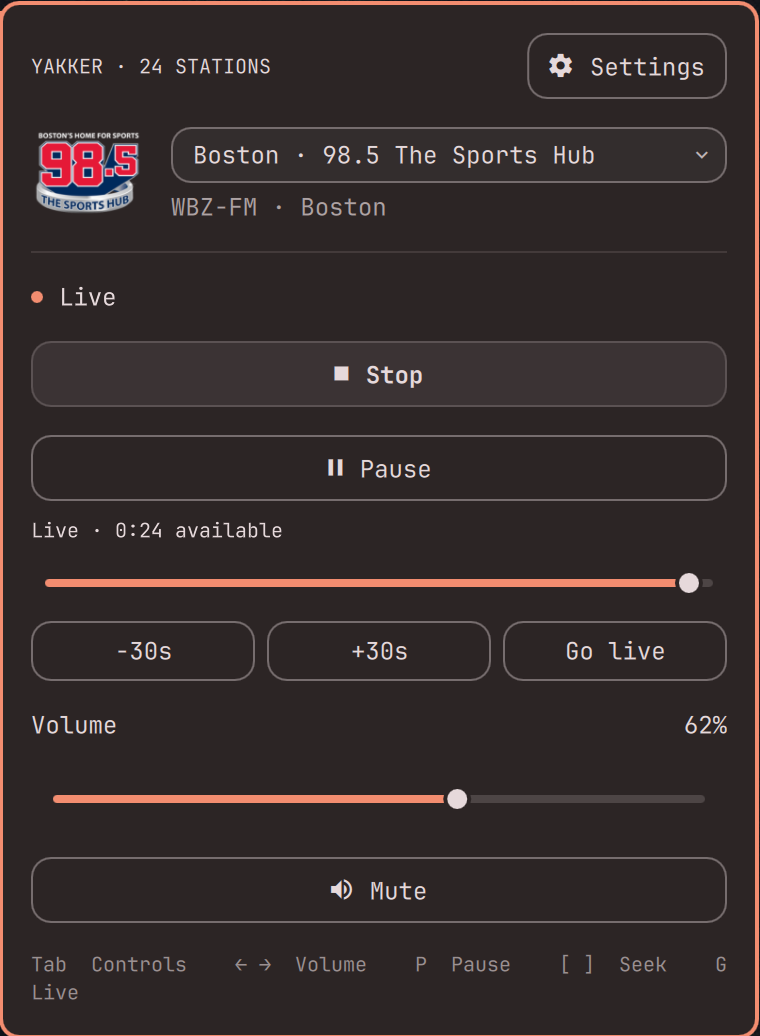
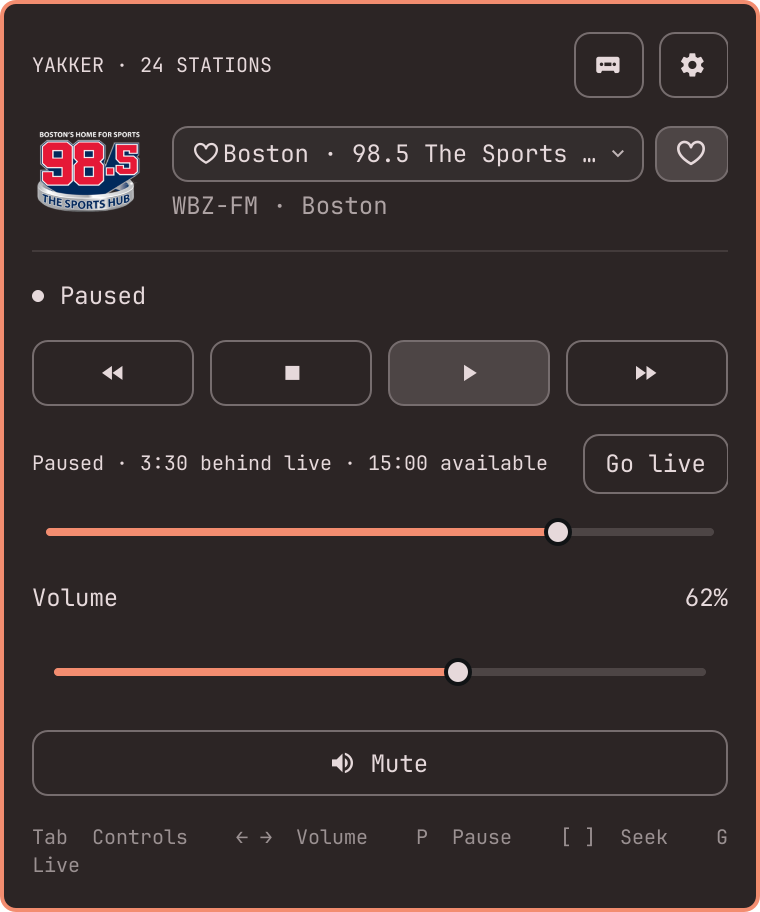
Refresh README feature gallery and native UI screenshots

diff --git a/tools/readme/gallery.qml b/tools/readme/gallery.qml
@@ -1,0 +1,104 @@
+import QtQuick
+import QtQuick.Window
+import QtTest
+import Quickshell
+import qs.Commons as Commons
+import "plugin" as Plugin
+
+ShellRoot {
+  Window {
+    id: window
+    visible: true
+    width: 380
+    height: 600
+    color: "transparent"
+    Plugin.Panel { id: panel; width: window.width; height: window.height }
+    Timer { interval: 800; running: true; onTriggered: gallery.render() }
+    TestCase {
+      id: gallery
+      when: false
+      readonly property var radio: panel.radio
+      readonly property var schedule: ({id: "afternoon", label: "Afternoon sports", stationId: "wbz-fm", stationName: "98.5 The Sports Hub", weekdays: [1,2,3,4,5], startTime: "14:00", endTime: "14:20", timezone: "America/New_York", enabled: true, nextStart: "2026-11-23T14:00:00-05:00", nextEnd: "2026-11-23T14:20:00-05:00"})
+      function snapshot(schedules, recordings, active) {
+        return {available: true, revision: 1, error: "", localTimezone: "America/New_York",
+          settings: {folder: "/home/demo/Music/Yakker", storageCapBytes: 5368709120, freeSpaceReserveBytes: 1073741824, concurrency: 3},
+          usedBytes: recordings.reduce(function(total, item) { return total + item.bytes }, 0), schedules: schedules, recordings: recordings, activeCount: active || 0}
+      }
+      function capture(name) {
+        panel.screenshotScroller.contentY = 0
+        wait(150)
+        window.height = panel.screenshotPanel.contentHeight
+        wait(150)
+        var done = false, saved = false
+        window.contentItem.grabToImage(function(result) {
+          saved = result.saveToFile(Quickshell.env("YAKKER_SCREENSHOT_DIR") + "/yakker-" + name + ".png")
+          done = true
+        })
+        tryVerify(function() { return done }, 5000)
+        verify(saved, "Could not save " + name)
+      }
+      function render() {
+        try {
+          // The production components render sample state without starting the
+          // shared controller. Dates and show labels are illustrative.
+          Commons.Style.cornerRadius = 8
+          Commons.Style.fontFamily = "JetBrainsMono Nerd Font"
+          const request = new XMLHttpRequest()
+          request.open("GET", Qt.resolvedUrl("plugin/stations.json"), false)
+          request.send()
+          radio.stations = JSON.parse(request.responseText)
+          radio.station = radio.stations[0]
+          radio.stationId = radio.station.id
+          radio.favoriteIds = ["wbz-fm", "wfan", "tsn-690"]
+          radio.initialized = true; radio.ready = true
+          radio.wanted = true; radio.playbackState = "playing"
+          radio.volume = 62
+          radio.recordings = snapshot([], [], 0)
+          panel.cursor = -1
+          panel.open()
+          capture("popup")
+
+          radio.bufferMinutes = 15; radio.dvr = true
+          radio.bufferStart = 0; radio.bufferEnd = 900; radio.position = 690
+          radio.paused = true; radio.playbackState = "paused"
+          capture("dvr")
+
+          radio.bufferMinutes = 0; radio.dvr = false; radio.paused = false
+          radio.playbackState = "playing"
+          panel.screenshotPicker.open()
+          capture("stations")
+          panel.screenshotPicker.close()
+
+          const complete = {id: "saved", label: "Afternoon sports", stationName: "98.5 The Sports Hub", status: "complete", bytes: 3600000, durationSeconds: 1200,
+            plannedStart: "2026-11-19T14:00:00-05:00", plannedEnd: "2026-11-19T14:20:00-05:00", startedAt: "2026-11-19T14:00:01-05:00", endedAt: "2026-11-19T14:20:00-05:00", playable: true}
+          const active = {id: "capturing", label: "Afternoon sports", stationName: "98.5 The Sports Hub", status: "recording", bytes: 1800000,
+            plannedStart: "2026-11-20T14:00:00-05:00", plannedEnd: "2026-11-20T14:20:00-05:00", startedAt: "2026-11-20T14:00:01-05:00", playable: false}
+          radio.recordings = snapshot([schedule], [active, complete], 1)
+          panel.openRecordings(false)
+          capture("recordings")
+
+          radio.recordings = snapshot([], [], 0)
+          panel.screenshotView.beginEdit(Object.assign({}, schedule, {id: ""}))
+          capture("schedule")
+          panel.screenshotView.editing = false
+
+          panel.recordingsOpen = false
+          radio.playbackKind = "recording"; radio.recordingTitle = "Afternoon sports"
+          radio.duration = 1200; radio.position = 486
+          capture("recording-player")
+
+          radio.playbackKind = "live"; radio.position = 0
+          panel.settingsOpen = true
+          capture("settings")
+          panel.settingsOpen = false
+          panel.openRecordings(true)
+          capture("storage")
+          console.log("YAKKER_README_SCREENSHOTS_PASS")
+        } catch (error) {
+          console.error("YAKKER_README_SCREENSHOTS_FAIL", error, error.stack)
+        }
+        Qt.quit()
+      }
+    }
+  }
+}

diff --git a/tools/readme/KeyboardPanel.qml b/tools/readme/KeyboardPanel.qml
@@ -1,0 +1,37 @@
+import QtQuick
+import qs.Commons
+import qs.Commons as Commons
+import qs.Ui as Ui
+
+// Headless counterpart of the installed layer-shell wrapper. Retains its native
+// card, border, padding and sizing; only the desktop anchoring is replaced.
+Item {
+  id: root
+  property var anchorItem
+  property var owner
+  property var bar
+  property bool open: false
+  property var focusTarget
+  property int contentWidth: 380
+  property int contentHeight: 500
+  default property alias contentItem: contentHolder.children
+  width: contentWidth
+  height: contentHeight
+  function fittedContentWidth(value) { return value }
+  function fittedContentHeight(value) { return Math.ceil(value + card.contentTopInset + card.contentBottomInset) }
+  Ui.BorderSurface {
+    id: card
+    anchors.fill: parent
+    color: Commons.Color.popups.background
+    borderSpec: Border.surfaceSpec("popups", "border", Commons.Color.popups.border, Math.max(1, Style.space(2)))
+    padding: Style.spacing.popupPadding
+    radius: Style.cornerRadius
+    Item {
+      id: contentHolder
+      x: card.contentLeftInset
+      y: card.contentTopInset
+      width: root.width - card.contentLeftInset - card.contentRightInset
+      height: root.height - card.contentTopInset - card.contentBottomInset
+    }
+  }
+}

diff --git a/README.md b/README.md
@@ -1,6 +1,6 @@
 # Yakker
 
-A lightweight sports-radio player for your desktop, with optional **DVR-style controls**.
+A lightweight sports-radio player for your desktop, with **pause, rewind, and scheduled recordings**.
 
 Native Qt/QML internet radio for the Quattro bar, with a compiled Go controller.
 Twenty-four stations across the US, Canada, UK and Ireland, streamed through headless mpv.
@@ -14,18 +14,28 @@ minutes of history** in Settings; use the timeline, skip back or forward
 30 seconds, or select **Go live** to catch up. **Live only** remains the default,
 and buffered audio stays in RAM without creating recording files.
 
+**Save a show for later.** Schedule recordings by weekday and timezone, keep
+compact Opus files in `~/Music/Yakker`, and play them inside Yakker. Choose your
+recording folder and storage cap. Favorite stations stay at the top of search,
+and you can add your own stream URLs.
+
 Plugin ID: `io.github.joega.yakker`. Code is MIT licensed. Unaffiliated with the broadcaster.
 The bundled station logos belong to their respective owners; see [artwork attribution](assets/README.md).
 
 [Install](#install-locally) · [DVR controls](#pause-and-rewind) · [Recordings](#scheduled-recordings) · [Stations](#stations) · [Terminal player](#terminal-player) · [Settings](#settings-and-stations)
 
-<p>
-  <a href="docs/yakker-dvr.png"><img src="docs/yakker-dvr.png" alt="Yakker DVR controls with Pause, a buffered-audio timeline, 30-second rewind and forward, and Go live" width="240" align="top"></a>
-  <a href="docs/yakker-popup.png"><img src="docs/yakker-popup.png" alt="Yakker live playback controls" width="240" align="top"></a>
-  <a href="docs/yakker-stations.png"><img src="docs/yakker-stations.png" alt="Yakker station picker with city search and live playback" width="240" align="top"></a>
-</p>
+| Live radio | Pause and rewind | Recording library |
+| :---: | :---: | :---: |
+| [<img src="docs/yakker-popup.png" alt="Live player with favorite station, cassette and settings icons, and a compact rewind, Stop, Play/Pause, forward row" width="240">](docs/yakker-popup.png) | [<img src="docs/yakker-dvr.png" alt="Paused radio with 15 minutes of history, a seek timeline, and Go live" width="240">](docs/yakker-dvr.png) | [<img src="docs/yakker-recordings.png" alt="Recording library with a weekday schedule, an active capture, and a saved show ready to play" width="240">](docs/yakker-recordings.png) |
+| Compact playback controls | Catch up at your pace | Record while you listen |
 
-_DVR controls, live playback, and station search. Select a screenshot to view it full size._
+| Favorites and search | Weekly schedules | Settings and custom stations |
+| :---: | :---: | :---: |
+| [<img src="docs/yakker-stations.png" alt="Searchable station list with favorites sorted first" width="240">](docs/yakker-stations.png) | [<img src="docs/yakker-schedule.png" alt="Schedule editor with weekdays, start and end times, timezone, and next-occurrence preview control" width="240">](docs/yakker-schedule.png) | [<img src="docs/yakker-settings.png" alt="Settings with listening buffer, recording storage, and custom station controls" width="240">](docs/yakker-settings.png) |
+| Find a station by name, city, or country | Set the days, time, and timezone | Make Yakker your own |
+
+_Select any screenshot to enlarge it. Screens show the current native UI with
+illustrative playback and recording data; see [how to refresh them](docs/screenshots.md)._
 
 ## Stations
 
@@ -120,8 +130,11 @@ packaging builds locally and does not publish or install anything.
 
 ## Listen
 
-Click the radio icon in the bar, select a station, then **Play live**. **Stop** releases the player;
-Play always connects to a fresh live stream. Closing the popup leaves audio playing.
+Click the radio icon in the bar, select a station, then press the **Play** icon.
+The transport row contains **Rewind · Stop · Play/Pause · Forward**. Rewind and
+forward skip 30 seconds and dim when unavailable. **Play/Pause** pauses or resumes
+an active player; **Stop** releases it. Playing a stopped radio starts a fresh
+live stream. Closing the popup leaves audio playing.
 Right-click the bar icon to open the station list directly.
 The popup includes a searchable station selector, volume, mute, connection status, and Retry after errors.
 Search by station, city or country—for example, `690`, `Seattle`, `UK` or `Ireland`.
@@ -165,14 +178,14 @@ point later. Open **Settings** in the radio popup and choose a **Listening buffe
 
 Press **Pause** or **P** during Live only playback to start a temporary **15-minute**
 RAM buffer without reconnecting the stream. **Resume** continues from the paused
-position, and the timeline, **−30s / +30s**, and **Go live** become available.
+position, and the timeline, **Rewind / Forward**, and **Go live** become available.
 The saved Live only setting stays unchanged. This temporary buffer ends when you
 Stop, change stations, explicitly change the buffer setting, or close the player.
 A stream reconnection retains temporary mode but clears the old connection's
 audio, so the original paused position is lost.
 
 With a configured buffer, use the same **Pause / Resume**, timeline,
-**−30s / +30s**, and **Go live** controls. Audio continues arriving while paused. History begins when buffering
+**Rewind / Forward**, and **Go live** controls. Audio continues arriving while paused. History begins when buffering
 is enabled; programmes from before that connection are unavailable. Changing
 stations or buffer length, pressing Stop, or closing the player clears history.
 The widget remembers the selected buffer length without starting playback at login.
@@ -205,7 +218,7 @@ independent of the desktop widget.
 
 ## Scheduled recordings
 
-Open **Recordings → New schedule**, choose a bundled or custom station, select
+Open the **cassette icon → New schedule**, choose a bundled or custom station, select
 weekdays, enter start/end times in 24-hour format, and choose the timezone. Use
 **Preview next time** to check the resolved occurrence before saving. For example,
 WBZ-FM can record Fridays from `14:00` to `14:20` in `America/New_York`. A time
@@ -213,10 +226,14 @@ before the start ends the next day; schedules can last up to 12 hours. Daylight
 saving follows the saved timezone. Schedules start empty; create and enable the
 ones you want.
 
+| Saved-show playback | Recording storage |
+| :---: | :---: |
+| [<img src="docs/yakker-recording-player.png" alt="Saved recording playing with the compact transport row, duration-based timeline, and Return to live" width="300">](docs/yakker-recording-player.png) | [<img src="docs/yakker-storage.png" alt="Recording storage settings with an editable folder, library cap, free-space reserve, and concurrency limit" width="300">](docs/yakker-storage.png) |
+
 Up to **three recordings** can run at once, including while you listen to another
 station. Closing the popup, stopping foreground audio, changing stations, or
 playing a saved recording leaves those captures running. The bar dot turns red
-while capturing, and the popup shows the active count. The machine must be awake
+while capturing; the cassette button highlights and its tooltip shows the active count. The machine must be awake
 with the plugin loaded in the bar. Disabling/removing the last widget, restarting
 the shell, or shutting down the helper interrupts captures. Recoverable output is
 retained as partial; when the plugin returns during the scheduled interval it can

diff --git a/docs/screenshots.md b/docs/screenshots.md
@@ -1,0 +1,30 @@
+# README screenshots
+
+Refresh all eight screenshots from the repository root:
+
+```sh
+bash tools/capture-readme.sh
+```
+
+Pass another destination to review captures before replacing the README assets:
+
+```sh
+bash tools/capture-readme.sh /tmp/yakker-readme-preview
+```
+
+The renderer needs Quickshell, Qt Quick / QtTest, the installed Omarchy `qs.Ui`
+and `qs.Commons` modules, and JetBrainsMono Nerd Font. It uses the current theme
+and a two-times display scale for sharp images. Review every image after a
+capture, especially dropdown placement, text wrapping, and long editor screens.
+
+The images render the checkout's actual `Panel.qml`, `RecordingsView.qml`, and
+shared native controls. A headless wrapper reproduces the popup card's border,
+padding, and content sizing without opening a desktop layer-shell surface.
+The screenshot process supplies illustrative station, playback, schedule, and
+library state. Show labels, dates, file sizes, and the `/home/demo` storage path
+are examples. It does not start the controller, connect to broadcasters, create
+recordings, or change the installed plugin or user settings.
+
+These images document appearance. For real controller, recording playback,
+keyboard, and lifecycle checks, use `tools/test-recordings-ui.py` and the checks
+described in [recordings validation](recordings-validation.md).
